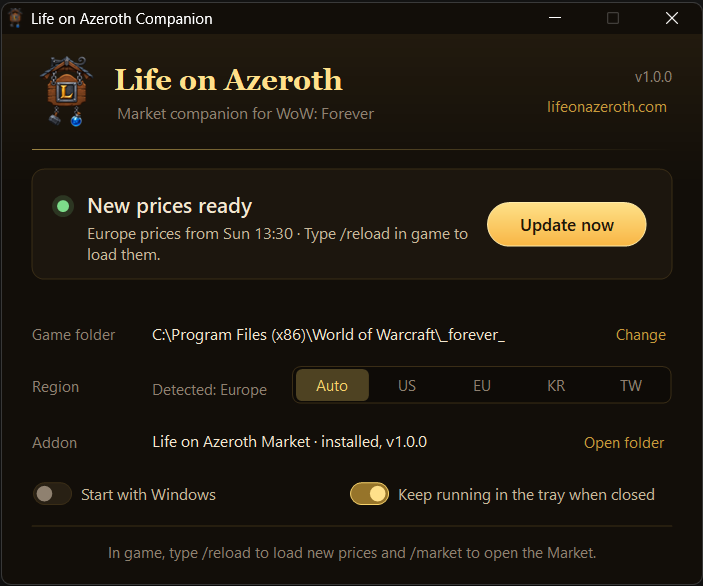
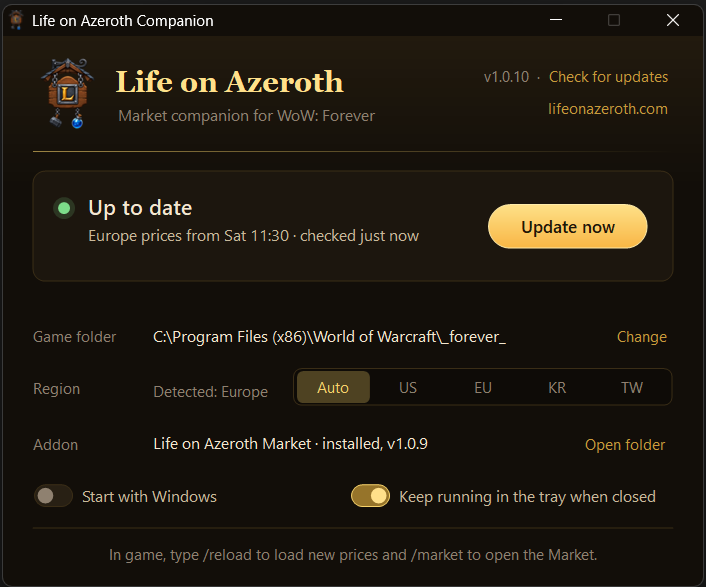
New screenshots and descriptions for the current features

diff --git a/docs/curseforge-description.md b/docs/curseforge-description.md
@@ -1,75 +1,82 @@
 # CurseForge page (kept in sync by hand)
 
-Paste into authors.curseforge.com → project → Description (Markdown mode).
+Paste into authors.curseforge.com -> project -> Description (Markdown mode).
 Images load from the public GitHub repo (`media/`), so replacing a file there
 with the same name updates the page.
 
 **Summary (one line):**
 
-> Prices, trends and item history for your own auction house in WoW Forever, right inside the game.
+> Auction house prices, trends and sell rates for your own auction house in WoW: Forever, right in your tooltips.
 
 **Description:**
 
 ```markdown
 # Life on Azeroth: Market
 
-The auction house market from [lifeonazeroth.com](https://lifeonazeroth.com/#economy), inside **WoW Forever**.
+Auction house prices for WoW: Forever, inside the game. Every auction house in every region is read once an hour, so you see what things actually sell for on your own auction house, how prices have moved, and whether something is worth listing at all.
 
-Is Iron Ore cheap right now, or did everyone just undercut each other this morning? Are herbs climbing all week? Is that green sword worth listing, or will it sit there for two days? Open the Market and you'll know before you post.
+It stays out of your way: a couple of lines in your item tooltips, and a window you open when you want the full picture.
 
-**Prices update every hour.** Every auction house in every region is read once an hour, so you're looking at real prices and real history, not a guess from the last time you checked the AH. The last three days are kept hour by hour, and older history is kept at a coarser step so the data stays small.
+![The Market: indexes on the left, a chart comparing them](https://raw.githubusercontent.com/sanredz/LifeOnAzeroth-Addon/main/media/market.png)
 
-> **Found a bug?** If something looks off, please [open an issue](https://github.com/sanredz/LifeOnAzeroth-Addon/issues).
+## What it does
 
-![The Market: indexes on the left, a chart comparing them, and the hover tooltip](https://raw.githubusercontent.com/sanredz/LifeOnAzeroth-Addon/main/media/market.png)
+**Prices in your tooltips.** Hover anything in your bags, the bank, loot or chat to see its typical price on your auction house, the price of the whole stack and how many sell per day. You choose which lines show up and in what order.
 
-## The Market
+![Item tooltip with typical price, sold per day and sell rate](https://raw.githubusercontent.com/sanredz/LifeOnAzeroth-Addon/main/media/tooltip.png)
 
-- **Indexes** work like a stock index. Each one follows a group of items from the day tracking began, starting at 100: the whole market, trade goods, ore and bars, cloth, herbs, potions, green gear by level and more. 70 means prices are about 30% lower than when it started.
-- **Trends at a glance:** every index has a small trend line and its change over the time range you pick on the chart: the last 6 hours, a day, a week, a month or all time. The prices behind them update every hour.
-- **Compare up to five** indexes or items on one chart. Hover the chart to see every line's value at that hour.
-- **Search any item** seen on the auction house and get its typical price, cheapest listing and 24-hour change as you type.
-- **Your picks stay put.** The chart remembers what you were watching the next time you log in.
-- **Prices in item tooltips:** hover anything in your bags, the bank, loot or chat and see its typical price on your auction house, and the price of the whole stack. `/market tooltip` turns it off.
+**The Market window** (`/market`):
 
-## Every item has its own page
+- **Indexes** for the whole market, trade goods, ore, cloth, herbs, consumables, gear and more, with trends over 6 hours, a day, a week, a month or all time.
+- **Today's movers:** what rose and fell the most since yesterday.
+- **Compare up to five** indexes or items on one chart.
+- **Search any item** seen on the auction house.
+- **Any auction house:** it opens on your own ruleset and faction, and every other house is one click away.
 
-Click any item to see:
+![Today's movers](https://raw.githubusercontent.com/sanredz/LifeOnAzeroth-Addon/main/media/movers.png)
 
-- **Typical price** (the middle of what's listed, so one silly auction can't throw it off) and the **cheapest** listing right now.
-- **How many auctions** are up, how many items are for sale and what a vendor pays for it.
-- **Price history** with both lines, plus a bar chart of how many were for sale each hour.
-- **The price in every region**, so you can see that Cerulean Dye goes for 31s in Europe and 54s in Taiwan.
-- **Similar items** on the auction house right now, one click away.
-- The game's own tooltip on the icon, and **Shift-click** to link the item in chat.
+**Every item has its own page:** typical and cheapest price, auctions up, items for sale, vendor price and sold per day, price history, and **Does it sell?**, which shows how often it actually sold at each price over the last week. Crafted items show what they're made from and whether crafting them is a profit or a loss, and materials show what they're used in.
 
-![An item page with price history and prices in every region](https://raw.githubusercontent.com/sanredz/LifeOnAzeroth-Addon/main/media/item.png)
+![An item page with price history, sell rates and crafting](https://raw.githubusercontent.com/sanredz/LifeOnAzeroth-Addon/main/media/item.png)
 
-## Your own auction house
+**Your items:** everything in your bags and bank, on one character or all of them, with what it sells for, sold per day, sell chance, what it's worth and whether to auction or vendor it. **Portfolio** tracks your net worth over time.
 
-Every ruleset has three auction houses, Alliance, Horde and the neutral Blackwater, and they have very different prices. The Market shows the prices on **your** auction house, picked from the realm you're on and your character's faction, so the numbers match what you see when you open the AH. You can switch to any other ruleset or house with one click.
+![Your items](https://raw.githubusercontent.com/sanredz/LifeOnAzeroth-Addon/main/media/youritems.png)
+
+**Customize** picks the tooltip lines and table columns you want, with a live preview. Open it from the Customize button, the AddOns menu or `/market options`.
+
+![Customize](https://raw.githubusercontent.com/sanredz/LifeOnAzeroth-Addon/main/media/customize.png)
 
 ## Getting prices into the game
 
 Addons can't go online, so a small companion app does that part.
 
-1. Download **LifeOnAzerothCompanion.exe** from the [latest release on GitHub](https://github.com/sanredz/LifeOnAzeroth-Addon/releases/latest) and run it. There's nothing to install.
-2. It finds your game folder and downloads fresh prices **every hour** into a small **Life on Azeroth: Data** addon. Keep that one enabled.
-3. Type `/reload` in game, or **Shift-click** the coin by your minimap, and the newest prices are loaded.
+1. Get the addon from CurseForge (you're here) so it keeps itself up to date.
+2. Download `LifeOnAzerothCompanion.exe` from the [latest release](https://github.com/sanredz/LifeOnAzeroth-Addon/releases/latest) and run it. There's nothing to install. It finds your game and downloads new prices into a small **Life on Azeroth: Data** addon while WoW is running.
+3. Type `/reload` in game, or Shift-click the coin by your minimap, to load the newest prices.
 
-The app sits quietly in the tray, can start with Windows and never pops up while you play. Windows may say it's unrecognised the first time: click **More info**, then **Run anyway**.
+It can start with Windows and keeps running in the tray. When there's a new version, the app tells you and links to the GitHub page.
+
+The app isn't code signed, so Windows may say it's unrecognised the first time: click **More info**, then **Run anyway**. Some antivirus programs have flagged older versions by mistake. If that happens to you, get the latest version from GitHub.
 
 ![The companion app](https://raw.githubusercontent.com/sanredz/LifeOnAzeroth-Addon/main/media/companion.png)
 
-## Usage
+## Commands
 
-Open the Market with `/market`, `/loa` or the coin by your minimap. `/market minimap` hides or shows the minimap button.
+| Command | Does |
+| --- | --- |
+| `/market` or `/loa` | Opens or closes the Market |
+| `/market options` | Opens Customize |
+| `/market tooltip` | Turns the tooltip lines on or off |
+| `/market minimap` | Shows or hides the minimap coin |
 
 ## What it touches
 
-The addon only draws its own window. It doesn't change the auction house, Blizzard's UI or anything else in your game, and it never sends anything.
+The addon only draws its own window and tooltip lines. It doesn't change the auction house or Blizzard's UI, and it never sends anything.
 
-The companion app only talks to lifeonazeroth.com, and only writes to the Life on Azeroth folders in your AddOns folder. The one thing it reads is your game's region setting, so it knows which prices to fetch. It doesn't touch your account, your characters or anything else on your PC.
+The companion app only talks to lifeonazeroth.com and only writes to the Life on Azeroth folders in your AddOns folder.
 
-Source and issues: [github.com/sanredz/LifeOnAzeroth-Addon](https://github.com/sanredz/LifeOnAzeroth-Addon)
+Found a bug? [Open an issue](https://github.com/sanredz/LifeOnAzeroth-Addon/issues).
+
+Source, releases and issues: [github.com/sanredz/LifeOnAzeroth-Addon](https://github.com/sanredz/LifeOnAzeroth-Addon)
 ```

diff --git a/README.md b/README.md
@@ -1,40 +1,69 @@
 # Life on Azeroth: Market
 
-The auction house market from [lifeonazeroth.com](https://lifeonazeroth.com/#economy), inside WoW: Forever.
+Auction house prices for WoW: Forever, inside the game. Every auction house in every region is read once an hour, so you see what things actually sell for on your own auction house, how prices have moved, and whether something is worth listing at all.
 
-- **Price indexes** for the whole market, sectors, materials, consumables and gear, with trends and change over the last 6 hours, a day, a week, a month or all time. **Prices update every hour**, and the last three days are kept hour by hour.
-- **Your own auction house:** prices for your ruleset and faction, so they match what you see in game. Switch to any other house with one click.
-- **Item tooltips** show the typical price, and the stack price when you hover a stack.
-- **Charts** that compare up to five indexes or items.
-- **Item search** across everything seen on the auction house, with typical and cheapest price, auctions, items for sale and vendor price.
-- **Item cards** with price history, items for sale each hour, the price in every region and similar items.
+It stays out of your way: a couple of lines in your item tooltips, and a window you open when you want the full picture.
 
-Open it with `/market` or the coin by your minimap.
+![The Market: indexes on the left, a chart comparing them](media/market.png)
 
-![The Market: indexes on the left and a chart comparing them](media/market.png)
+## What it does
 
-![An item page with price history and prices in every region](media/item.png)
+**Prices in your tooltips.** Hover anything in your bags, the bank, loot or chat to see its typical price on your auction house, the price of the whole stack and how many sell per day. You choose which lines show up and in what order.
 
-## How prices get into the game
+![Item tooltip with typical price, sold per day and sell rate](media/tooltip.png)
 
-Addons cannot go online, so a small companion app does that part.
+**The Market window** (`/market`):
 
-1. Get the addon from [CurseForge](https://www.curseforge.com/wow/addons/lifeonazeroth-market), so it keeps itself up to date.
-2. Download `LifeOnAzerothCompanion.exe` from the [latest release](https://github.com/sanredz/LifeOnAzeroth-Addon/releases/latest) and run it. There is nothing to install. It finds your game and downloads new prices every hour into a small `LifeOnAzeroth_Data` addon. If WoW is already open the first time, restart the game once so it shows up.
-3. In game, type `/reload` or shift-click the minimap coin to load the newest prices.
+- **Indexes** for the whole market, trade goods, ore, cloth, herbs, consumables, gear and more, with trends over 6 hours, a day, a week, a month or all time.
+- **Today's movers:** what rose and fell the most since yesterday.
+- **Compare up to five** indexes or items on one chart.
+- **Search any item** seen on the auction house.
+- **Any auction house:** it opens on your own ruleset and faction, and every other house is one click away.
 
-The app can start with Windows and keeps running in the tray when you close it. Right-click the tray icon to quit.
+![Today's movers](media/movers.png)
 
-Windows may say the app is unrecognised the first time. Click **More info**, then **Run anyway**.
+**Every item has its own page:** typical and cheapest price, auctions up, items for sale, vendor price and sold per day, price history, and **Does it sell?**, which shows how often it actually sold at each price over the last week. Crafted items show what they're made from and whether crafting them is a profit or a loss, and materials show what they're used in.
+
+![An item page with price history, sell rates and crafting](media/item.png)
+
+**Your items:** everything in your bags and bank, on one character or all of them, with what it sells for, sold per day, sell chance, what it's worth and whether to auction or vendor it. **Portfolio** tracks your net worth over time.
+
+![Your items](media/youritems.png)
+
+**Customize** picks the tooltip lines and table columns you want, with a live preview. Open it from the Customize button, the AddOns menu or `/market options`.
+
+![Customize](media/customize.png)
+
+## Getting prices into the game
+
+Addons can't go online, so a small companion app does that part.
+
+1. Get the addon from [CurseForge](https://www.curseforge.com/wow/addons/lifeonazeroth-market) so it keeps itself up to date.
+2. Download `LifeOnAzerothCompanion.exe` from the [latest release](https://github.com/sanredz/LifeOnAzeroth-Addon/releases/latest) and run it. There's nothing to install. It finds your game and downloads new prices into a small **Life on Azeroth: Data** addon while WoW is running.
+3. Type `/reload` in game, or Shift-click the coin by your minimap, to load the newest prices.
+
+It can start with Windows and keeps running in the tray. When there's a new version, the app tells you and links to this page.
+
+The app isn't code signed, so Windows may say it's unrecognised the first time: click **More info**, then **Run anyway**. Some antivirus programs have flagged older versions by mistake. If that happens to you, get the latest version here.
 
 ![The companion app](media/companion.png)
 
-## Slash commands
+## Commands
 
 | Command | Does |
 | --- | --- |
-| `/market` or `/loa` | Opens or closes the Market. |
-| `/market minimap` | Shows or hides the minimap button. |
+| `/market` or `/loa` | Opens or closes the Market |
+| `/market options` | Opens Customize |
+| `/market tooltip` | Turns the tooltip lines on or off |
+| `/market minimap` | Shows or hides the minimap coin |
+
+## What it touches
+
+The addon only draws its own window and tooltip lines. It doesn't change the auction house or Blizzard's UI, and it never sends anything.
+
+The companion app only talks to lifeonazeroth.com and only writes to the Life on Azeroth folders in your AddOns folder.
+
+Found a bug? [Open an issue](https://github.com/sanredz/LifeOnAzeroth-Addon/issues).
 
 ## License
 
